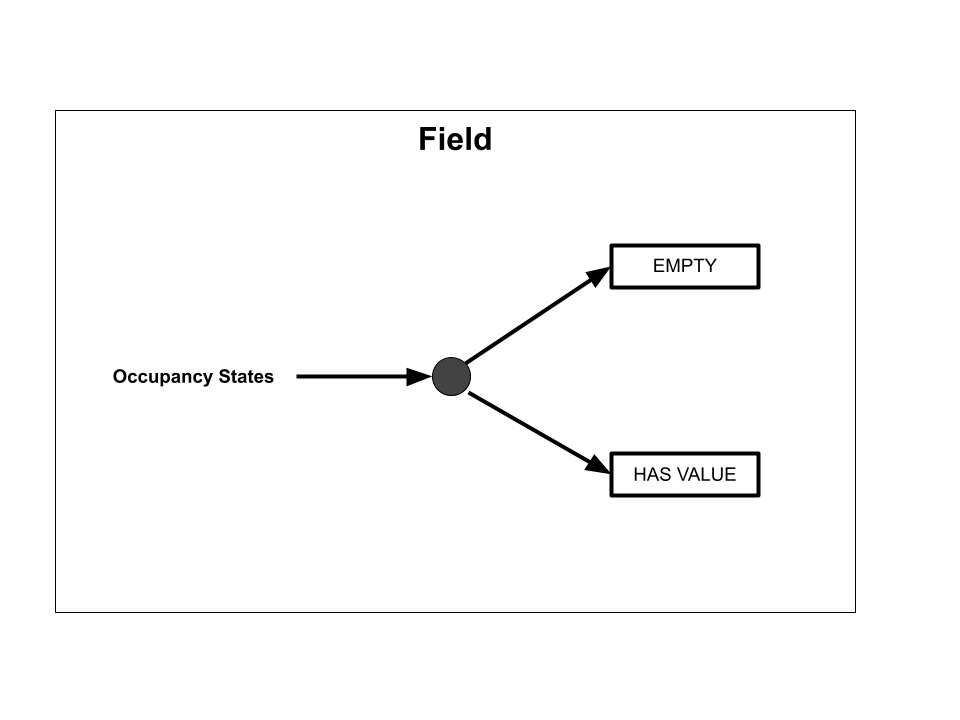
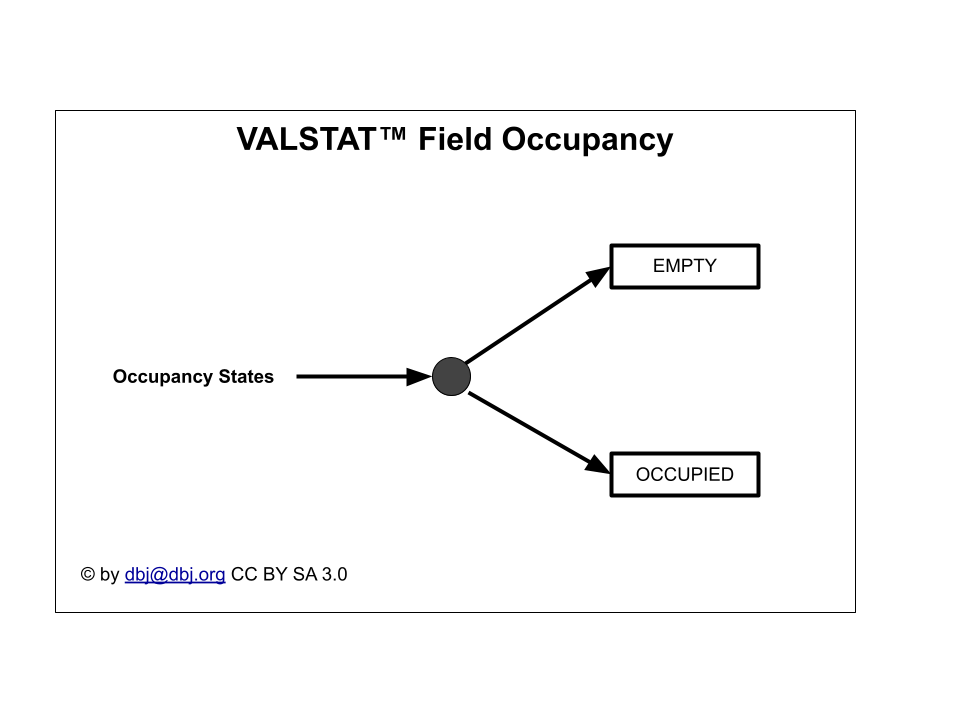
update

diff --git a/VALSTAT.md b/VALSTAT.md
@@ -1,4 +1,4 @@
-<h1>valstat - returns handling protocol</h1><!-- omit in toc -->
+<h1>valstat - call/response <!-- returns handling--> protocol</h1><!-- omit in toc -->
  
 | &nbsp;           | &nbsp;                                                |
 | ---------------- | ----------------------------------------------------- |
@@ -17,19 +17,17 @@ There are two ways of constructing a software design: One way is to make it so s
 - [1. Abstract](#1-abstract)
 - [2. Motivation](#2-motivation)
 - [3. The Protocol](#3-the-protocol)
-- [4. Conceptual building blocks](#4-conceptual-building-blocks)
-  - [4.1. VALSTAT structure](#41-valstat-structure)
-  - [4.2. Field](#42-field)
-    - [4.2.1. Occupancy states](#421-occupancy-states)
-  - [4.3. VALSTAT State](#43-valstat-state)
-  - [4.4. The VALSTAT Responder](#44-the-valstat-responder)
-- [5. Why the "two"](#5-why-the-two)
-- [6. VALSTAT and the global IT landscape?](#6-valstat-and-the-global-it-landscape)
-- [7. Conclusions](#7-conclusions)
-- [8. References](#8-references)
-- [9. Appendix: Cross Domains Requirements](#9-appendix-cross-domains-requirements)
-  - [9.1. Appendix: Climate impact](#91-appendix-climate-impact)
-- [10. Appendix: VALSTAT state BNF definition](#10-appendix-valstat-state-bnf-definition)
+  - [3.1. Conceptual building blocks](#31-conceptual-building-blocks)
+  - [3.2. VALSTAT structure](#32-valstat-structure)
+  - [3.3. Field](#33-field)
+    - [3.3.1. Occupancy states](#331-occupancy-states)
+  - [3.4. VALSTAT State](#34-valstat-state)
+  - [3.5. The VALSTAT Responder Behavior](#35-the-valstat-responder-behavior)
+- [4. Why the "two"?](#4-why-the-two)
+- [5. VALSTAT and the IT landscape?](#5-valstat-and-the-it-landscape)
+- [6. Conclusions](#6-conclusions)
+- [7. References](#7-references)
+- [8. Appendix: VALSTAT BNF definition](#8-appendix-valstat-bnf-definition)
 
 ## Revision history<!-- omit in toc -->
 
@@ -49,20 +47,20 @@ This paper describes an software protocol, not language specific implementations
 
 Context: Integration is a common recurring theme in a software development. It is complex and difficult to predict in a feasible level of detail.
 
-Levels of Integration
+Levels of Integration, ordered by the scope width
 
-1. universal
-1. domain
-1. system
-1. application
-1. component
-2. code
+| scope | level
+|-------| -------
+| widest | universal
+|       | domain
+|       | system
+|       | application
+|       | component
+| narrowest      | code
 
-A call/response activity exists an all levels.
+Calling, creating a response, returning a response and handling the response, is activity present an all levels. 
 
-Calling, creating a response, returning a response and handling the response an all levels. 
-
-Resilience requires a common and simple guidance. A standard. A protocol.
+Feasibility of the integration requires a high level of resilience. Integration resilience requires a common and simple guidance. An standard protocol.
 
 <!--
 ### 2.1. Narrow scope 
@@ -97,7 +95,7 @@ A call/response, software activity guided by a protocol is a paradigm shift.
 
 *"A paradigm is a standard, perspective, or set of ideas. A paradigm is a way of looking at something ... When you change paradigms, you're changing how you think about something..."* [vocabulary.com](https://www.vocabulary.com/dictionary/paradigm)
 
-## 4. Conceptual building blocks
+### 3.1. Conceptual building blocks
 
 VALSTAT protocol is based on a structure returned as a consequence of a call.
 
@@ -109,32 +107,25 @@ CALLER --> (local/remote call) --> RESPONDER
 
 CALLER <-- (VALSTAT structure) <-- RESPONDER
 ```
-<font size=2>(We use BNF. [Backus–Naur form or Backus normal form (BNF)](https://en.wikipedia.org/wiki/Backus%E2%80%93Naur_form) is a metasyntax notation for context-free grammars.)</font>
-```
---> ::= { remote | local } {"call" | "data flow"}
-```
-
-IMPORTANT: `CALLER` or `RESPONDER` can reside inside the same or different, application or system domains. Local or remote to each other.
+Locality: `CALLER` or `RESPONDER` can reside inside the same or different, application or system domains. Local or remote to each other.
 
 **Response using logic is divided in two steps**
 
-As part of response handling activity, the two steps logic is always present: 
+As part of response handling activity, regardless of platform or language, the two steps logic is always present: 
 
 - step one -- Is something returned? 
 - step two -- Can I use it?   
 
-Conceptually valstat protocol is the "two steps" returns processing:
+Conceptually valstat protocol is the "two steps" return processing:
 
 1. use the structure returned to determine the step two
     - not using the type system or actual values returned
 2. use the content returned
     - using the type system and values returned
 
-That is a two step logic, that can be applied across many software development platforms and run-time domains.
+That is a two step logic, that can be applied across many (if not all) software development platforms and run-time domains.
 
-Going further, the VALSTAT structure is made of two fields. 
-
-### 4.1. VALSTAT structure
+### 3.2. VALSTAT structure
 
 VALSTAT structure is an record made of two fields:
 
@@ -151,34 +142,35 @@ begin record VALSTAT
 eof record
 ```
 -->
-### 4.2. Field
+### 3.3. Field
 
-VALSTAT "field" is analogous to the database field. <!-- The name "field" is the name for an "single piece of information" -->
+VALSTAT "field" is analogous to the database field. "field" is the name for an "single piece of information".
 
-In database theory also "field" is: [*"a particular piece of data encapsulated within a class or object"*](https://en.wikipedia.org/wiki/Field_(computer_science)).
+In database theory "field" is: [*"a particular piece of data encapsulated within a class or object"*](https://en.wikipedia.org/wiki/Field_(computer_science)).
 
-Key attributes of a Valstat field concept are:
+Key attributes of a field are:
 
 1. field always exists
 2. field can be empty or "contain a value"
 
-#### 4.2.1. Occupancy states
+#### 3.3.1. Occupancy states
 
-Field can be in two "occupancy states"  (authors term) . We will call them : "empty" and "occupied". For example, it is a well known and adopted fact: database field always exist, but it can be empty.
+Field can be in two "occupancy states"  (authors term) . We will call them : "empty" and "occupied". 
 
 ![field two occupancy states](media/field%20occupancy%20states.png)
 
 In software development terms field is an object **potentially** holding only one value. It might be tested if it is "empty" , or occupied aka "holding a value".
 
-### 4.3. VALSTAT State 
+### 3.4. VALSTAT State 
 
 VALSTAT State is an boolean result of AND combination of occupancy states of two VALSTAT structure fields. 
 
-Combination of two fields value *and* status occupancies is giving four possible states. 
+Combination of two fields value *and* status occupancies is giving four possible states.
 
-We will name them for further use.
+![valstat record state decoding](media/VALSTAT%20Record%20States.png)
+Valstat Record state decoding
 
-| Meta State Tag | Value occupancy  | op | Status occupancy  |
+| State Tag | Value occupancy  | op | Status occupancy  |
 | ----- | ------- | ------- | --- |
 | **Info**  | Has value | AND | Has value |
 | **OK**    | Has value | AND | Empty     |
@@ -191,9 +183,9 @@ In adopting the returned VALSTAT structure two step handling we do not immediate
 
 In the most (all?) programing languages, there is no need for existence of some dedicated VALSTAT types.  Returned structure handling, step one is only about the relationship between two fields states of occupancy.
 
-VALSTAT state capturing is the act of decoding the relationship between occupancy states of its two fields.
+VALSTAT state decoding is the act of decoding the relationship between occupancy states of its two fields.
 
-Following is synopsis of capturing the four possible VALSTAT states:
+Following is synopsis of decoding one of the four possible VALSTAT states:
 
 ```cpp
 // pseudo code
@@ -208,11 +200,9 @@ Following is synopsis of capturing the four possible VALSTAT states:
   if ( ! is_empty( value ) &&   is_empty( status )  { /* state: error*/ }
   if ( ! is_empty( value ) && ! is_empty( status )  { /* state: empty*/ }
 ```
-That synopsis can be implemented, almost as it is, in many languages: C, JavaScript, Python, GO, Java etc. 
+That synopsis can be implemented, almost as it is, in many languages: C, JavaScript, Python, GO, Java, C# etc. 
 
-NOTE: in particular language definition of the VALSTAT we very often do not need `is_empty()` function implemented. 
-
-Here is canonical C++ example.
+NOTE: in particular language definition of the VALSTAT we very often do not need `is_empty()` function implemented. Here is canonical C++ as an example.
 
 ```cpp
 // calling
@@ -226,93 +216,91 @@ auto [value, status] = valstat_enabled_function ();
   if ( ! value && ! status )  { /* empty*/ }
 ```
 
-Protocol return handling code is neatly divided in steps. VALSTAT handling logic serves well for arriving to cleaner idioms for complex call consumption code. 
+VALSTAT Protocol return handling code is neatly divided in two steps. VALSTAT handling logic serves well for arriving to cleaner idioms for complex call consumption code. 
 
-The aded benefits are immediate applicability and ability in addressing the requirements across domains.
+### 3.5. The VALSTAT Responder Behavior
 
-### 4.4. The VALSTAT Responder
+From the callable entity, an VALSTAT Responder is "signaling back" following the encapsulated application logic; creating and returning the appropriate VALSTAT structure.
 
-From the callable entity VALSTAT Responder is "signaling back" following the internal logic and creating and returning the appropriate VALSTAT structure.
-
-The VALSTAT structure declaration.
+The VALSTAT structure pseudo code declaration.
 ```
 begin record VALSTAT  
-     declare field VALUE
-     declare field STATUS
+     field VALUE
+     field STATUS
 eof record
 ```
-RESPONDER signaling the "OK" state
+RESPONDER behavior consists of creating the appropriate VALSTAT record. RESPONDER signaling the "OK" state:
 ```
 // pseudo code
 return VALSTAT  
+// occupied value field and empty status field 
      VALUE = (value), STATUS = (NULL)
 eof return
 ```
-Both `value` and `NULL` are meaningful as defined by the application domain. Or a system domain. On the higher level there are inter system formats like JSON or XML.
-
-RESPONDER signaling the "INFO" state
+Both `value` and `NULL` are meaningful software entities, as defined by their application domain. RESPONDER signaling the "INFO" state
 ```
 return VALSTAT  
+// occupied value field and occupied status field 
      VALUE = (value), STATUS = (information)
 eof return
 ```
 RESPONDER signaling the "ERROR" state
 ```
 return VALSTAT  
+// empty value field and occupied status field 
      VALUE = (NULL), STATUS = (information)
 eof return
 ```
 RESPONDER signaling the "EMPTY" state
 ```
 return VALSTAT  
+// empty value field and empty status field 
      VALUE = (NULL), STATUS = (NULL)
 eof return
 ```
 
-## 5. Why the "two"
+## 4. Why the "two"?
 
-Context depend on the domain.
-
-As ever in the information systems, the meaning of the information is context specific.
+Context depend on the domain. As ever in the information systems, the meaning of the information is context specific.
 
 VALSTAT is a protocol for light **and** efficient information passing. 
 
-VALSTAT is not a messaging protocol. Contrast it to some protocol using (for example) XML (or JSON) documents for functions calling and function return values. Author is not aware of such a protocol. But anything between that and record of two fields is not as light and not as efficient as VALSTAT structure.
+VALSTAT is not a messaging protocol. Contrast it to some protocol using (for example) XML (or JSON) documents for functions calling and function return values. Author is not aware of such a protocol. But anything between that and VALSTAT record of two fields, is not as light and not as efficient as VALSTAT structure.
 
-And going bellow the two, degenerates back to the "error value return" anti-pattern.
+And going bellow the two, degenerates back to the "single error value return" anti-pattern.
 
 
-## 6. VALSTAT and the global IT landscape?
+## 5. VALSTAT and the IT landscape?
 
-VALSTAT protocol value lies in it's deliberate simplicity, aiding in solving the strict operational requirements and interoperability issues.
+VALSTAT protocol value lies in it's deliberate simplicity, still capable aiding in solving the software operational and interoperability issues.
 
-Modern software architectures are clusters of inter-operating but separated components and even sub-systems. One thorny big issue, is solving universally applicable returns handling, across language and system  barriers.  And this is where VALSTAT as a protocol might help. (think JSON format for VALSTAT protocol) 
+Modern software architectures are clusters of inter-operating but separated components and even sub-systems. One thorny big infrastructure issue, is solving universally applicable returns handling, across language and system  barriers.  And this is where VALSTAT as a protocol might help. (think JSON format for VALSTAT protocol) 
 
-Universal adoption of the VALSTAT requires no changes in any of the software development languages. It just has ot be universally used.
+Universal adoption of the VALSTAT requires no changes in any of the software development languages. It just has to be universally adopted and used.
 
 <!-- div class="page"/ -->
 
-## 7. Conclusions
+## 6. Conclusions
 
 Hopefully proving the benefits of evolution of error code handling into returns handling protocol does not need much convincing. 
 
-There are many real situations where the VALSTAT paradigm can be successfully used. From a micro to the macro level. 
+There are many real situations where the VALSTAT protocol can be successfully used. From a micro to the macro level. 
 
 As an common returns protocol, VALSTAT state requires to be ubiquitously adopted to become truly an instrumental to widespread interoperability. From micro to macro levels. From inside the code to inter component calls. From inside an project to inter systems situations.
 
-VALSTAT protocol is multilingual in nature. Thus adopters from any imperative language are free to implement it in any way they wish too. The key requirement is: interoperability. 
+VALSTAT protocol is multilingual in nature. Thus adopters from any imperative language are free to implement it in any way they wish too. For non coherent groups of adopters, the key requirement is: interoperability. 
 
-Authors primary aim is to achieve widespread adoption of this paradigm. As shown VALSTAT is more than just solving the "error-signalling problem". It is an paradigm, instrumental in solving the often hard and orthogonal set of run-time requirements.
+Authors primary aim is to suggest widespread adoption of this paradigm. As shown VALSTAT is more than just solving the "error-signalling problem". It is an paradigm, instrumental in solving the often hard and orthogonal set of run-time operational requirements.
 
-It works on the micro level but VALSTAT aims high. And it's proposed scope is rather wide. But it is a humble protocol. It is just an simple and effective way of building bridges over one deeply fragmented part of the vast global IT territory. While imposing extremely little on adopters implementations and leaving the non-adopters to "proceed as before" if the wish too.
+VALSTAT aims high. And it's proposed scope is rather wide. But it is a humble protocol. It is just an simple and effective way of building bridges over deeply fragmented parts of the vast global IT infrastructure. While in the same time imposing extremely little on adopters implementations and leaving the non-adopters to "proceed as before" if they wish too.
 
-Obstacles to VALSTAT paradigm adoption are far from just technical. But here is at least an immediately usable attempt to chart the way out.
+Obstacles to VALSTAT adoption are far from just technical. But here is at least an immediately usable attempt to chart the way out.
 
 ----------------------
 
 <!-- <div class="page"/> -->
 
-## 8. References
+## 7. References
 
 - <a id="ref1">[1]</a> B. Stroustrup (2018) **P0976: The Evils of Paradigms Or Beware of one-solution-fits-all thinking**, https://www.stroustrup.com/P0976-the-evils-of-paradigms.pdf
 
@@ -324,7 +312,8 @@ Obstacles to VALSTAT paradigm adoption are far from just technical. But here is 
 
 <!-- div class="page"/ -->
 
-## 9. Appendix: Cross Domains Requirements
+<!--
+## 8. Appendix: Cross Domains Requirements
 
 **Run-Time **
 
@@ -332,9 +321,9 @@ One motivation of this paper is to try and offer an "over arching", but simple e
 
 **Interoperability**
 
-Each solution to often strict run-time requirements is one nail in the coffin of interoperability. In danger of sounding like offering an panacea,  author will also draw the attention to the malleability of the VALSTAT paradigm to be implemented with wide variety of languages used in developing components of an modern distributed system. 
+Each solution to often strict run-time requirements is one nail in the coffin of interoperability. In danger of sounding like offering an panacea,  author will also draw the attention to the malleability of the VALSTAT paradigm to be implemented with wide variety of languages used in developing components of an modern distributed system.
 
-Usability of an API is measured on all levels: from the code level, to the distributed system level. In order to design an API to be **feasibly** usable it has to be interoperable. That leads to three core requirements of
+Usability of an API is measured on all levels: from the code level, to the distributed system level. In order to design an API to be **feasibly** usable it has to be **interoperable**. That leads to three core requirements of
 
 Interoperable API core requirements (to start with)
 
@@ -353,7 +342,7 @@ Some of the designed-in, simplicity in this paper is an result of deliberate att
 
 It is important to understand there are inter domain interoperability requirements. Examples: [WASM](https://developer.mozilla.org/en-US/docs/WebAssembly/C_to_wasm), [Node.JS](https://nodejs.org/api/addons.html), [Android](https://developer.android.com/studio/projects/add-native-code) and such. 
 
-### 9.1. Appendix: Climate impact
+### 8.1. Appendix: Climate impact
 
 This is operational environment requirement. Operational environment can be satellite in an orbit circling the earth, or a data center on Island. 
 
@@ -362,18 +351,19 @@ Side info: it is not just hardware energy consumption, it is also energy require
 Solving data centers energy spending has become an imperative. Most of the server side software is written in C/C++ . Pressure is on, to design and develop with energy consumption as an primary requirement. 
 
 [This one is not a "simple" requirement](https://hal.archives-ouvertes.fr/hal-01496266/document). [Somewhat paradoxically](https://youtu.be/koTf7u0v41o) this category of requirements requires less and less code and more and more performance in the same time. Smaller executables means less energy spent on that executable running and less energy for cooling the CPU running it.
+-->
 
-## 10. Appendix: VALSTAT state BNF definition
+## 8. Appendix: VALSTAT BNF definition
 
 ```
 ; occupancy states
 empty     ::= true | false
-has_value ::= true | false
-occupancy_state ::== empty | has_value
+occupied  ::= true | false
+occupancy_state ::== empty | occupied
 
-; field is made of
+; field is logically made of
 ; occupancy state and value
-field ::=  occupancy_state AND value
+field ::=  { occupancy_state , value }
 
 ; 'value' and 'status' are fields
 value  ::= field
@@ -385,7 +375,7 @@ status ::= field
 VALSTAT state ::= is_empty(value) AND is_empty(status)
 
 ; valstat is a record made of two fields
-valsat ::= value AND status
+valsat ::= { value , status }
 ``` 
 
 [Backus–Naur form or Backus normal form (BNF)](https://en.wikipedia.org/wiki/Backus%E2%80%93Naur_form) is a metasyntax notation for context-free grammars.
